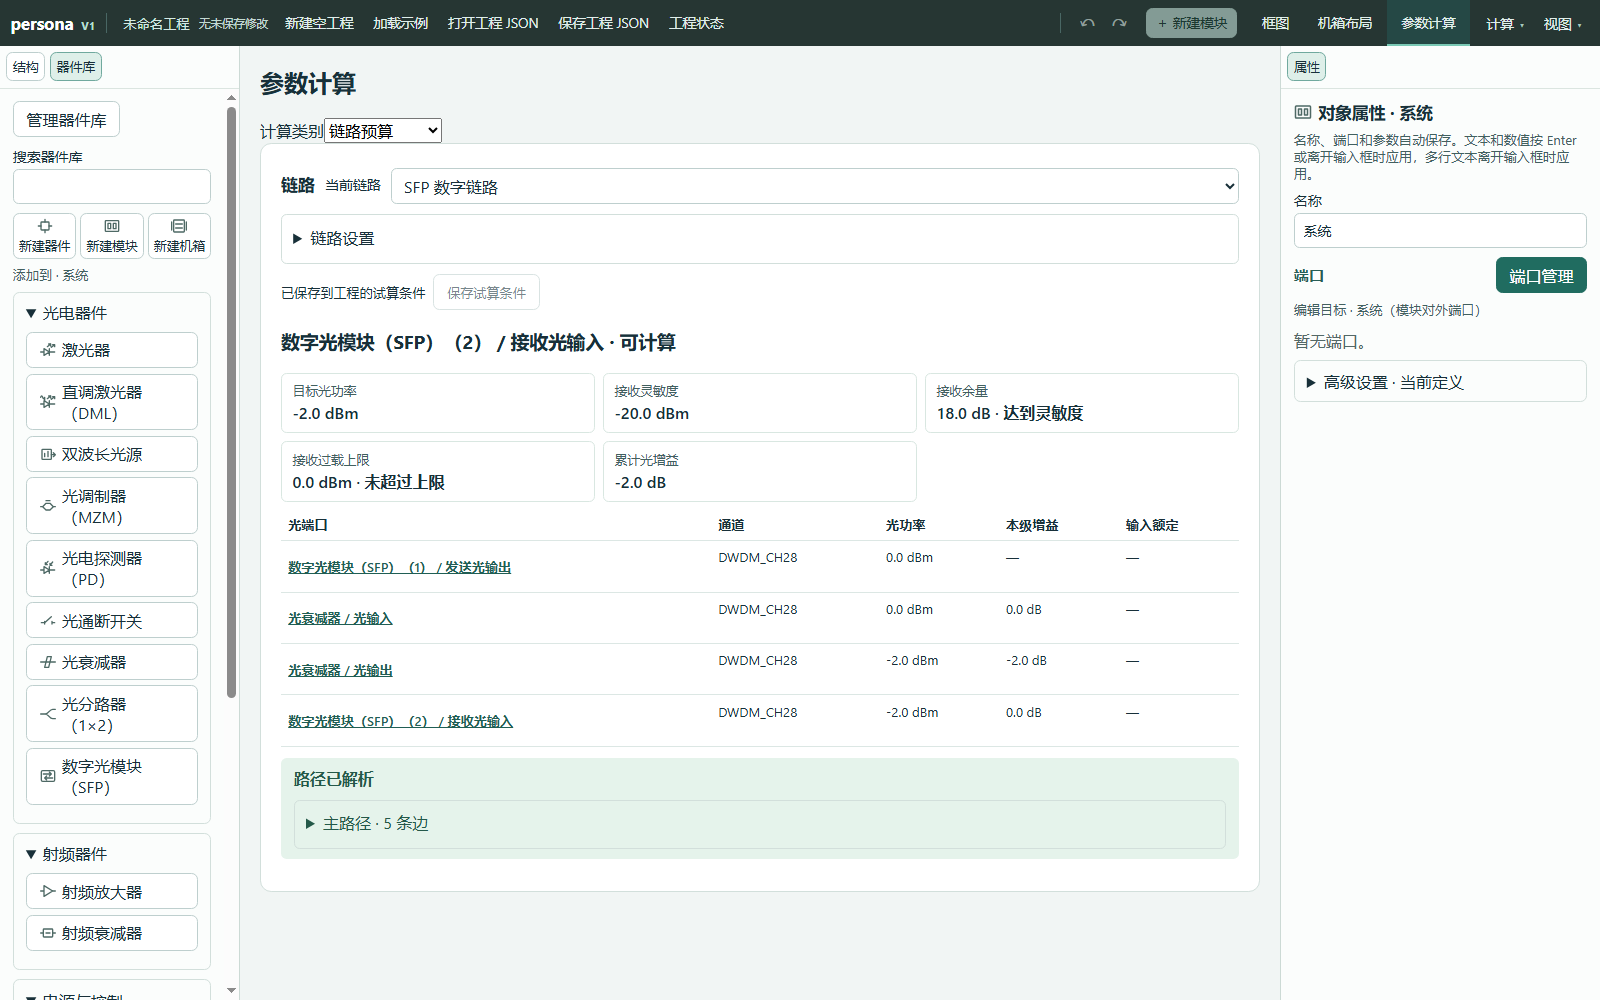
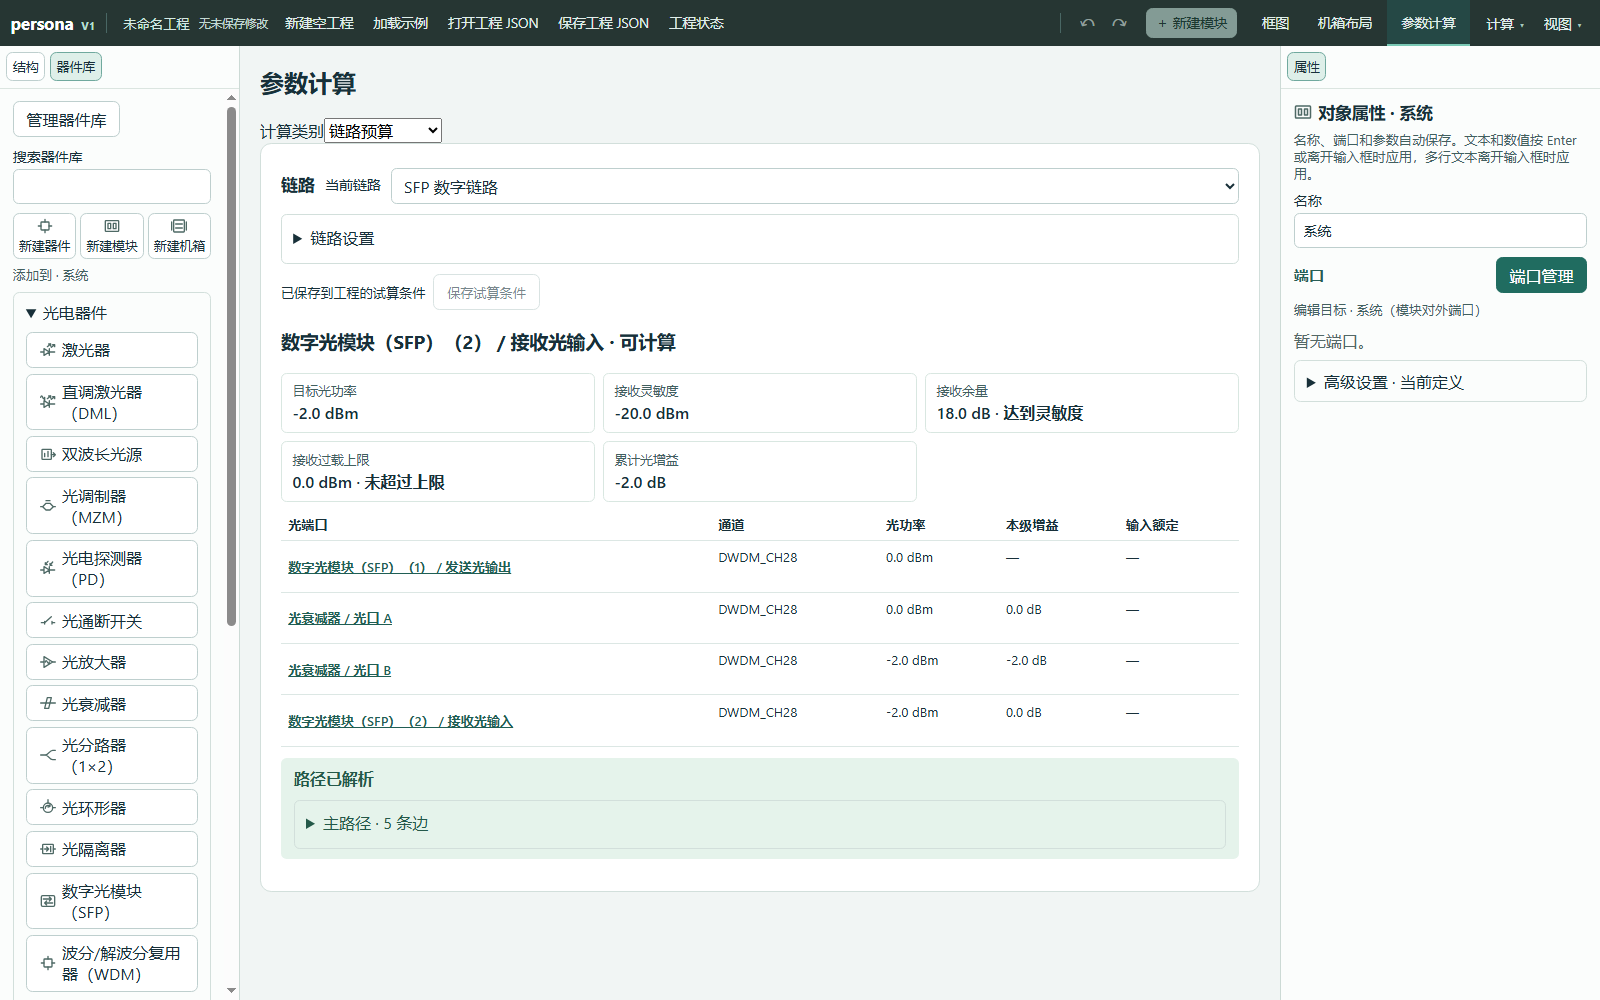
test: verify integrated optical defaults and supply capacity

Changed region(s): [[0.0, 0.651, 0.125, 1.0], [0.125, 0.62, 0.1562, 0.682], [0.2188, 0.651, 0.25, 0.682]]

diff --git a/tests/v1/power-ports.test.ts b/tests/v1/power-ports.test.ts
@@ -16,7 +16,7 @@ const root: ModuleDefinition = { kind: 'module', id: 'root', name: 'root', ports
 const base: Project = { id: 'test', name: 'Test', rootModuleDefinitionId: root.id, moduleDefinitions: [root], componentDefinitions: [] };
 
 test('factory power inputs are explicit, optional and confined to the active templates', () => {
-  const powered = ['rf-gain', 'rf-amplifier', 'laser', 'optical-source', 'dml', 'pcb', 'sfp', 'optical-switch', 'pd', 'mzm', 'rf-stage'];
+  const powered = ['rf-gain', 'rf-amplifier', 'laser', 'optical-source', 'dml', 'pcb', 'sfp', 'optical-switch', 'optical-amplifier', 'pd', 'mzm', 'rf-stage'];
   const found = [...factory.values()].filter(d => d.ports.some(p => p.id === 'DC_IN' && p.inputVoltageV)).map(d => d.id);
   assert.deepEqual(found.sort(), powered.map(id => 'library-' + id).sort());
   for (const id of found) {

diff --git a/README.md b/README.md
@@ -49,7 +49,7 @@ Get-FileHash artifacts/v1/persona-v1.html -Algorithm SHA256
 
 内置器件给出用于原型估算的示例默认值。可在属性栏覆盖实例的数值或曲线；功耗、RF 输入激励和有源 PD 的加载增益由使用者填写。双波长光源的 16 dBm 为每个波长的发射光功率。
 
-光分路器（1×2）使用「输出 1 分光比」和「额外插损」计算两个光输出。连接两个不同目标后，分别选择对应链路可查看实际光功率。数字光模块（SFP）从数字发送输入经发送光输出传到对端接收光输入和数字接收输出。在链路设置中选择光通道，填写发射光功率、接收灵敏度及可选过载上限，即可查看收光功率和余量。光调制器（MZM）等有源模板默认带一个标称 5 V 的直流输入，可在属性栏调整、删除或添加供电端口。在高级设置的「直流负载」中选择实际负载端口并填写功耗。AC/DC 电源的交流输入默认标称 220 V RMS，第一路直流输出默认为 +5 V、60 W。可修改该端口的电压和容量，也可在「端口管理」中点击「＋ 新建端口」增加更多直流输出。每路可单独填写额定容量（W 或 A），预算按实际端口和所连负载计算。每次从库添加的电源可独立配置。DC/DC 默认输出 +5 V，效率为 90%，变换器容量为 10 W。
+光分路器（1×2）使用「支路 1 分光比」和「额外插损」计算两个光输出。连接两个不同目标后，分别选择对应链路可查看实际光功率。数字光模块（SFP）从数字发送输入经发送光输出传到对端接收光输入和数字接收输出。在链路设置中选择光通道，即可查看收光功率和余量。SFP 出厂发射光功率为 0 dBm，接收灵敏度为 −20 dBm，过载上限为 0 dBm，均可在实例属性中覆盖。光调制器（MZM）等有源模板默认带一个标称 5 V 的直流输入，可在属性栏调整、删除或添加供电端口。在高级设置的「直流负载」中选择实际负载端口并填写功耗。AC/DC 电源的交流输入默认标称 220 V RMS，第一路直流输出默认为 +5 V、60 W。可修改该端口的电压和容量，也可在「端口管理」中点击「＋ 新建端口」增加更多直流输出。每路可单独填写额定容量（W 或 A），预算按实际端口和所连负载计算。每次从库添加的电源可独立配置。DC/DC 默认输出 +5 V，效率为 90%，变换器容量为 10 W。
 
 旧工程或器件库使用 `dcSupply: { portId, capacity }` 时，导入会提示旧单路结构并保留原文件。若旧库保存在当前浏览器，可在「管理器件库」中选择「导出浏览器原始库 JSON」。转换时先保留备份，把器件的 `dcSupply` 改为 `true`，将原来的额定容量写入对应输出端口的 `supplyCapacity`（例如 `{"unit":"W","value":{"kind":"fixed","value":7}}`），在该端口的 `outputVoltageV` 填写实际固定电压。检查该器件的全部直流输出，每个都会独立供电。旧实例采用不同电压或容量时，应先拆分为独立定义。
 
